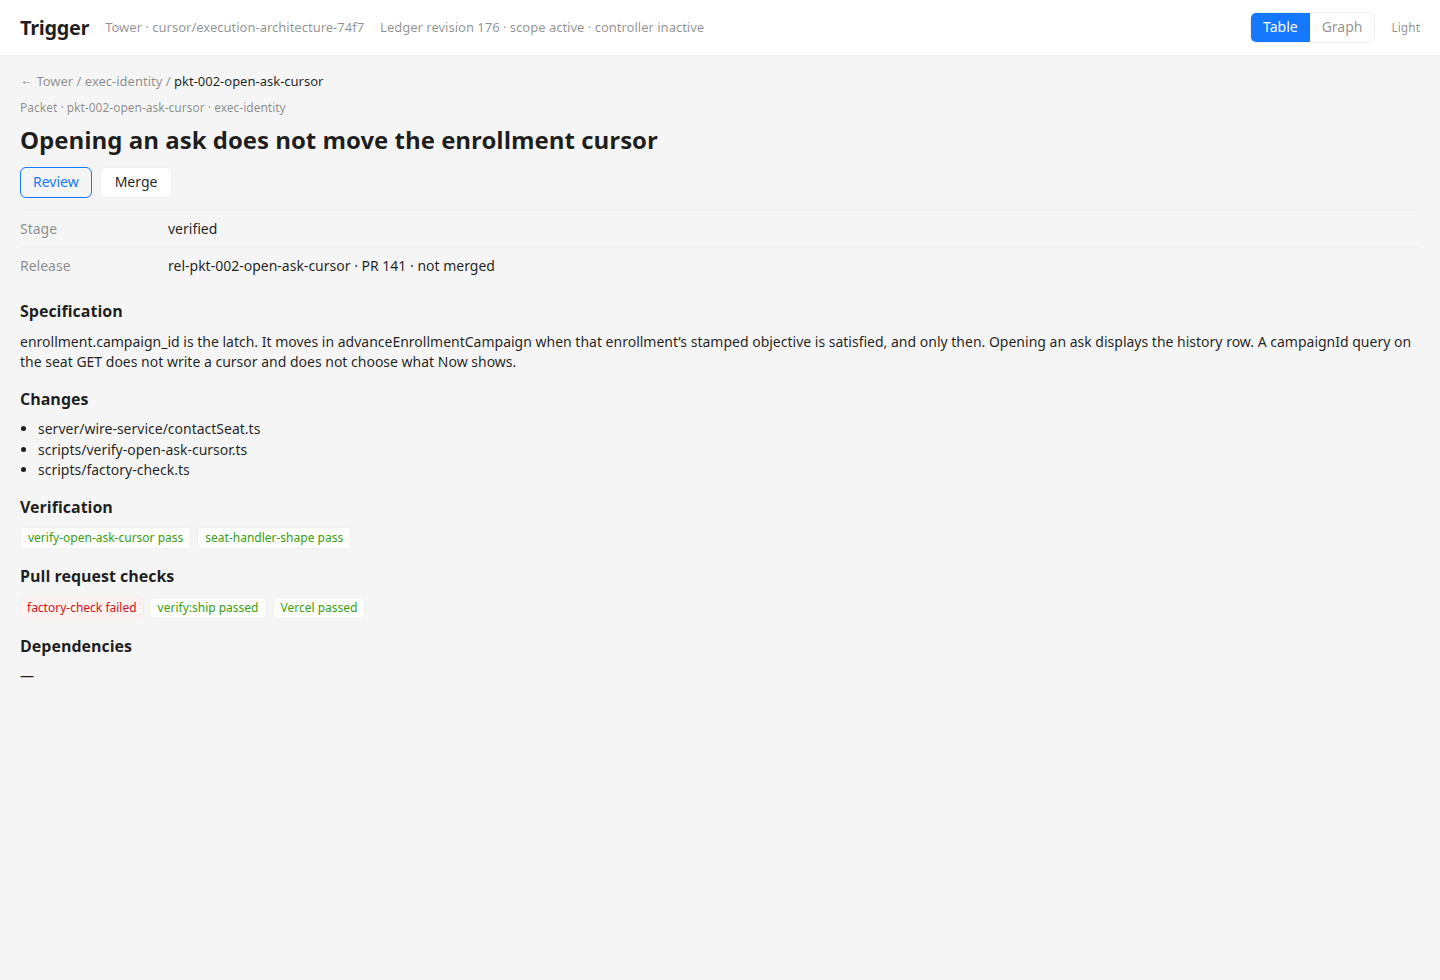
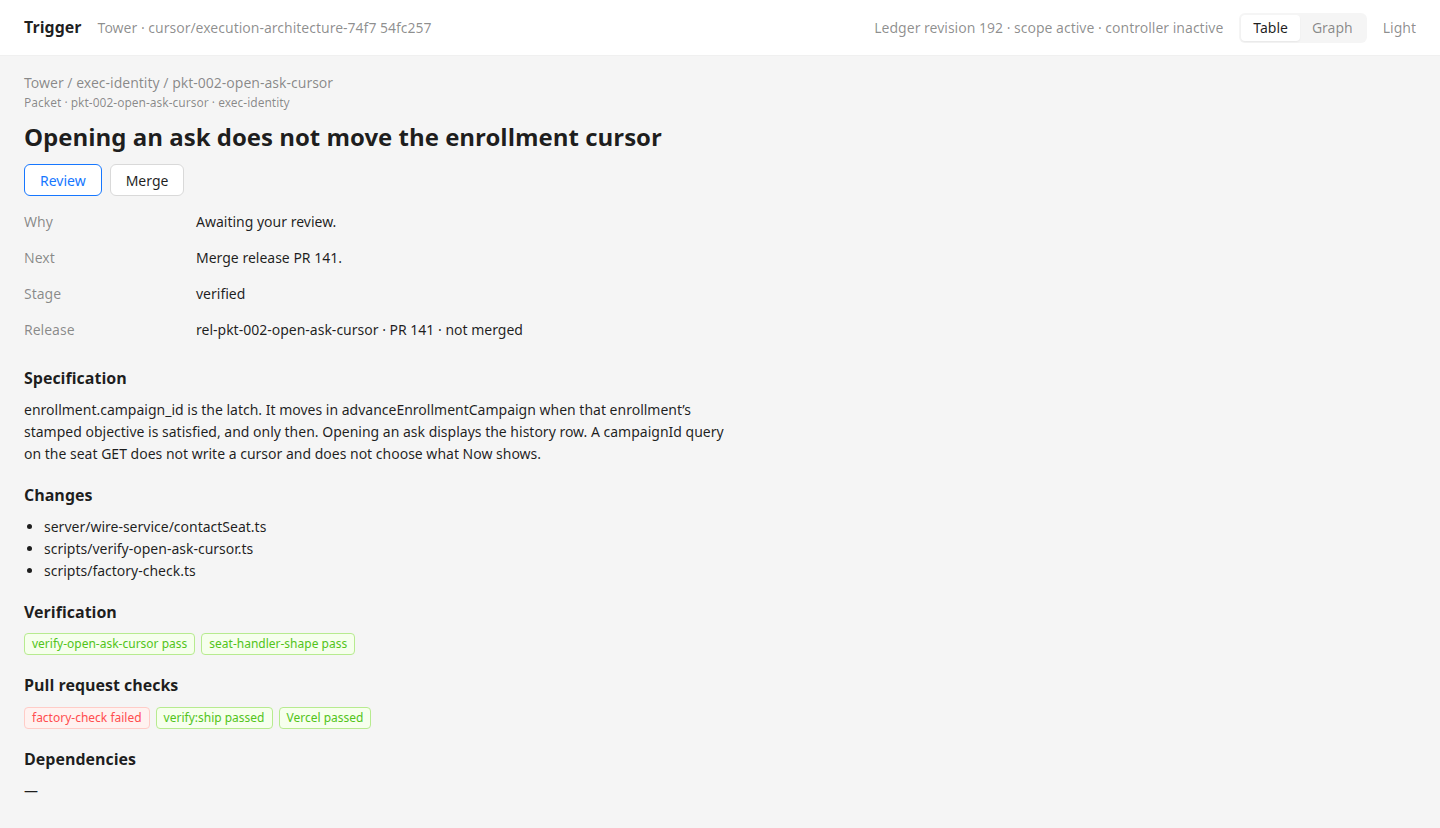
Revise packet 009 plates: inbox in the pulse drawer.
Open releases are the first rows of the existing pulse, with Why and Next taken from recorded ledger and manifest fields. Unknown stays Unknown. Wake remains hold.

diff --git a/docs/register/PM-PACKET-009-founder-inbox.md b/docs/register/PM-PACKET-009-founder-inbox.md
@@ -6,51 +6,97 @@ Plates: [`plates/packet-009/`](./plates/packet-009/README.md). Approve the plate
 
 ## Founder lock
 
-The banner is the pulse band. Open Trigger and see **Your attention required — 2 releases**. Each release offers the specification, the code changes, the passing checks, the dependencies, and a Review / Merge action. The review experience comes first. An authorized merge comes after. GitHub stays the infrastructure. Trigger is where you operate.
+The banner is the pulse. It is not a separate compartment. Open releases are the first rows in that drawer, in the order they opened. Each has Review. The review page stays: specification, changes, ledger checks, pull request checks, dependencies, and Merge. Why and Next are added on that page and on every row.
 
-MCP can see the packets and still cannot name the release pull requests. For both, `github.available` is false. Lifecycle says `verified`. There is no first-class awaiting-review record with the pull request, the changes, the verification, and the action.
+Explainable factory state is this same cut. The desk says why the work has not advanced, and what advances it. Where the ledger or the factory manifest does not record the answer, the desk says Unknown.
 
-## What the ledger already has
+GitHub stays the infrastructure. Trigger is where you read it. The merge write is not this cut.
 
-Tower ledger revision 176 on `cursor/execution-architecture-74f7` (31 Oct 2026). Scope active. 43 of 50 dispatches. An engineer lease is open on `pkt-019-first-step-send-denied`.
+## What was read
 
-`releases` is already on the ledger. Trigger’s snapshot type does not carry it. This packet reads that object. It does not mint a store.
+31 Oct 2026, 10:44 AM America/Toronto.
 
-| Release | Packet | Pull request | mergeSha | Packet stage | Ledger checks |
-| --- | --- | --- | --- | --- | --- |
-| `rel-pkt-002-open-ask-cursor` | `pkt-002-open-ask-cursor` | [141](https://github.com/bywale-com/omcoda_tower/pull/141) | null | verified | `verify-open-ask-cursor` pass, `seat-handler-shape` pass |
-| `rel-pkt-003-resume-same-run` | `pkt-003-resume-same-run` | [142](https://github.com/bywale-com/omcoda_tower/pull/142) | null | verified | `verify-resume-same-run` pass, `factory-check` pass |
+Operating branch `cursor/execution-architecture-74f7` at `54fc257`. Ledger revision 192. Scope active. `founderDecision` null. Controller activation inactive. `dispatch` forbidden. Dispatches 43 of 50. Cadence event.
 
-Titles are the manifest titles. The inbox is every `releases` entry whose `mergeSha` is null. Packets whose stage is `released` and that are absent from `releases` stay out of the count.
+`GET /api/snapshot` on https://trigger-theta-cyan.vercel.app returned ref `cursor/factory-agents-scope-33ee`, revision 122, scope suspended, activation inactive, `readFailed` false. The server selected that snapshot. It is not a stale page. This cut does not change which ref production follows. The plates are revision 192. A desk on revision 122 does not have these releases, and it still shows dispatches that revision 192 has superseded.
 
-The same read of the pull requests, same hour: PR 141 `factory-check` failed and `verify:ship` passed. PR 142 `factory-check` failed and `verify:ship` failed. The review shows the ledger checks and the pull request’s current checks as separate facts.
+## Releases
 
-The desk shows whatever ledger it is pointed at. These two releases are on revision 176. A desk pointed at `source.json` (`cursor/factory-agents-scope-33ee`, revision 122) does not have this `releases` map.
+`releases` is already on the ledger. Every entry below has `mergeSha` null. The drawer is these entries, oldest first. A packet whose stage is `released` and that is absent from `releases` is not one of them.
+
+| Release | Packets | Pull request | Opened (America/Toronto) |
+| --- | --- | --- | --- |
+| `rel-pkt-002-open-ask-cursor` | `pkt-002-open-ask-cursor` | [141](https://github.com/bywale-com/omcoda_tower/pull/141) | 9:43 AM |
+| `rel-pkt-003-resume-same-run` | `pkt-003-resume-same-run` | [142](https://github.com/bywale-com/omcoda_tower/pull/142) | 9:43 AM |
+| `rel-pkt-007-fact-writes` | `pkt-007-fact-writes` | [143](https://github.com/bywale-com/omcoda_tower/pull/143) | 10:38 AM |
+| `rel-pkt-005-audit-row-grain` | `pkt-005-audit-row-grain` | [144](https://github.com/bywale-com/omcoda_tower/pull/144) | 10:38 AM |
+| `rel-pkt-008-meeting-writes` | `pkt-008-meeting-writes` | [145](https://github.com/bywale-com/omcoda_tower/pull/145) | 10:39 AM |
+| `rel-pkt-010-campaign-failure-writes` | `pkt-010-campaign-failure-writes` | [146](https://github.com/bywale-com/omcoda_tower/pull/146) | 10:39 AM |
+| `rel-pkt-004-firing-handle--pkt-006-id-keyed-loads` | `pkt-004-firing-handle`, `pkt-006-id-keyed-loads` | [147](https://github.com/bywale-com/omcoda_tower/pull/147) | 10:39 AM |
+| `rel-pkt-013-firm-provision-writes` | `pkt-013-firm-provision-writes` | [148](https://github.com/bywale-com/omcoda_tower/pull/148) | 10:40 AM |
+
+Those packets are `verified`. Ledger checks for 141 and 142 are the passes already recorded. PR 141, read with the plates: `factory-check` failed, `verify:ship` passed, Vercel passed. The review shows the ledger checks and the pull request’s checks as separate facts.
+
+## Sentences
+
+Trigger does not add a store. It reads fields Tower already records and says only these sentences.
+
+| Recorded fact | Why | Next |
+| --- | --- | --- |
+| A `releases` entry with `mergeSha` null | Awaiting your review. | Merge release PR `{prNumber}`. The opened time is `openedAt`. |
+| Execution `phase` `running`, `startedAt` set, `endedAt` null, lease `until` after the read | Running, confirmed. Worker started at `startedAt`. Last recorded activity is `runningAt` when that field is set. | `execution.reason`, or Unknown when `reason` is null. |
+| `factory.json` `activation` is `inactive`, and the advance is a dispatch | Controller inactive. | Controller activation. |
+| Stage `verified`, `releaseEligible`, no `releases` entry | Unknown. | Unknown. |
+| Stage `accepted` and `integratedSha` set | Integrated. | This row is not in the drawer. |
+
+`pkt-019-first-step-send-denied` is the running case. Execution `dsp-172` is `running`, started 9:48 AM America/Toronto, last activity 9:51 AM, lease until 10:51 AM, `reason` null. The lease role is engineer. Next is Unknown. The manifest says checkpoint enforcement is an instruction and that no timer observes the interval, so the age of `runningAt` is not a stall.
+
+`pkt-018-send-denied-engagement` is also listed on `dsp-172`. Its stage is `verified` and it has no release. Its sentence is Unknown, not running.
+
+`pkt-009-eligibility-writes` and the other `released` packets with `wake` `sa` and no release use the controller sentence. Activation is inactive, so the controller does not dispatch. The desk does not say the analyst is the thing that advances them while that is true.
+
+`pkt-015-halt-enroll-firm`, `pkt-016-halt-send-firm`, and `pkt-018` are `verified` with no release. Unknown.
+
+`pkt-001-click-attribution` is `accepted` and integrated. It is not an alert.
+
+An unconfirmed dispatch is a current row only while it is still that packet’s `dispatch` and no later execution for that packet has `phase` `completed`. On revision 192, `pkt-002` and `pkt-003` have `dispatch` null and stage `verified`. They are not unconfirmed. `exec-identity` session is `continuation_due` and its `dispatch` is null. It is not unconfirmed. Its sentence is controller inactive.
 
 ## Face
 
-Desktop: the attention line sits in the pulse band, under the scope and controller tags, above the table. The rows are open. Phone: the count stays visible. The rows open with the pulse lip. The closed phone header does not gain a branch line.
+Closed pulse: **8 releases awaiting your review · 1 Engineer running**
 
-Review is the packet page. Specification is the factory intent, not a new summary. Changes are the pull request files when GitHub evidence is available. Verification is `execution.checks`. Pull request checks are that pull request’s checks when the GitHub read works. Dependencies are the manifest siblings. The ledger `prNumber` and `prUrl` show even when `github.available` is false.
+Quiet line under it: `scope active · controller inactive · 43/50 · event`
 
-Merge is on the page. This cut does not call GitHub.
+The existing lip opens the drawer. Releases first, by `openedAt`. The running execution after them. A release row is the manifest title, the sentence, and Review. The running row has no Review.
+
+Phone: the sentence stays visible with the lip closed. The rows open with that lip. The closed header does not gain a branch line. The board stays one table and scrolls sideways.
+
+Why and Next are columns on that table. Stage stays the lifecycle word.
+
+Review is the packet page. Why and Next are the first properties. Specification is the factory intent. Changes are the pull request files when that read works. Verification is `execution.checks`. Pull request checks are that pull request’s checks. Dependencies are the manifest siblings. The ledger `prNumber` and `prUrl` show when `github.available` is false. Merge is on the page and does not call GitHub.
 
 ## Technical cut
 
 | File | Job |
 | --- | --- |
-| `src/observe/snapshot.ts` | Carry `releases` from the ledger JSON onto the snapshot. |
-| `src/observe/tower/read.ts` | Pass `releases` through. No new store and no second fetch for the ledger. |
-| `src/desk/Pulse.tsx` | Attention count in the pulse band. Phone rows follow the existing lip. |
-| `src/desk/Detail.tsx` | Review block for a packet named by an open release. |
-| `src/observe/external/project.ts` | `get_packet` and a release list include `prNumber`, `prUrl`, `mergeSha`, ledger checks. |
-| `src/observe/external/mcp.ts` | The read tools return that release. No write tool. |
+| `src/observe/snapshot.ts` | Carry `releases` and the execution fields the sentences use: `phase`, `startedAt`, `runningAt`, `endedAt`, `reason`. |
+| `src/observe/tower/read.ts` | Pass those through. No second fetch and no new store. |
+| `src/observe/tower/pulse.ts` | The sentences and the drawer order. Unconfirmed only for a dispatch that is still unresolved. |
+| `src/desk/Pulse.tsx` | The sentence, the quiet line, and the drawer. No second band. |
+| `src/desk/TableView.tsx` | Why and Next on the existing board. |
+| `src/desk/Detail.tsx` | Why and Next. The review block for a packet named by an open release. |
+| `src/observe/external/project.ts` | `get_packet` and the release list include `prNumber`, `prUrl`, `mergeSha`, why, and next. |
+| `src/observe/external/mcp.ts` | The read tools return that. No write tool. |
 | `src/observe/tower/github.ts` | A failed enrichment still leaves the ledger pull request visible. Pull request checks attach only when that read succeeds. |
 
 ## Not this cut
 
-The merge write. A server-side token, later, that can merge only a Tower release pull request whose packet is `verified` and whose `mergeSha` is null. Not a general write on `trigger:read`.
+The merge write. A server-side token, later, that can merge only a Tower release pull request whose packet is `verified` and whose `mergeSha` is null.
 
-Other attention (blocked work, a waiting founder decision) in the same band.
+A Tower field for a transition reason. Unknown stays Unknown until that field exists.
 
-Pointing production at a different factory ref. That is the existing source setting.
+Any sentence that is not in the table above.
+
+Pointing production at a different factory ref.
+
+Calling a worker stalled because `runningAt` is old. Calling the factory operating while `activation` is inactive.

diff --git a/docs/register/plates/packet-009/README.md b/docs/register/plates/packet-009/README.md
@@ -1,26 +1,29 @@
 # Packet 009 plates — founder inbox
 
-Painted for approval. The desk is not planted. Chrome is the current header and the pulse band. The new hole is the attention line in that band, and the review block on the packet page.
+Painted for approval. The desk is not planted.
 
-Figures are ledger 176 on `cursor/execution-architecture-74f7`, read 31 Oct 2026. `releases` already names both open release pull requests. Trigger’s snapshot does not read that object, so the desk and the MCP still cannot.
+The attention is the pulse. It is not a second band. Open releases are the first rows in the pulse drawer. The running execution follows them. Review opens the packet page. That page is the review page already drawn, with Why and Next added.
+
+Figures are ledger revision 192 on `cursor/execution-architecture-74f7`, read 31 Oct 2026, 10:44 AM America/Toronto. Scope active. Controller activation inactive. 43 of 50 dispatches. Eight releases have `mergeSha` null. One execution is `running`.
 
 ## Plates
 
-- [desktop-light.png](./desktop-light.png) · [desktop-dark.png](./desktop-dark.png) — the count, then the two releases, above the table
-- [phone-closed.png](./phone-closed.png) — the count stays visible. The rows stay behind the lip
-- [phone-open.png](./phone-open.png) — the lip shows the two releases. The table stays underneath
-- [release-pkt-002.png](./release-pkt-002.png) — the review page for `pkt-002-open-ask-cursor`
+- [desktop-light.png](./desktop-light.png) · [desktop-dark.png](./desktop-dark.png) — the sentence, then the drawer, then Why and Next on the board
+- [phone-closed.png](./phone-closed.png) — the sentence stays visible. The rows stay behind the pulse lip
+- [phone-open.png](./phone-open.png) — releases first, then the running execution. The table stays underneath
+- [release-pkt-002.png](./release-pkt-002.png) — review for `pkt-002-open-ask-cursor`
+- [packet-pkt-019.png](./packet-pkt-019.png) — the running packet. Next is Unknown
 
 ## Copy
 
-**Your attention required — 2 releases.** Each row is one `releases` record whose `mergeSha` is null: the packet title, the pull request number, `verified`, the ledger check outcomes, and a failed pull-request check when that check is red. **Review** opens the packet page.
+**8 releases awaiting your review · 1 Engineer running**
 
-The review page quotes the factory intent. Changes are files on the release pull request. Verification is the ledger `execution.checks`. Pull request checks are the checks on that pull request now. Those are different facts. Dependencies are the manifest siblings. **Merge** is drawn and does not write.
+The quiet line is scope, controller, dispatch count, and cadence. Those are not the same kind of fact as the sentence.
+
+Each release row is the manifest title, then: awaiting your review, the pull request, and the time the release opened. **Review** opens the packet page. The running row names the worker start and the last recorded activity. It has no Review button.
+
+The board keeps its columns and adds Why and Next. The phone board still scrolls sideways. The closed phone header still shows only Trigger, Table / Graph, and the theme.
 
 ## Do not build from the picture alone
 
-A second inbox product. A paraphrase of the intent. A green “all checks passed” when `factory-check` or `verify:ship` is failed. Hiding the ledger pull request because `github.available` is false. A merge that calls GitHub. That write is a later cut.
-
-## Phone
-
-The count is in the banner. The release rows use the pulse lip. The closed header still shows only Trigger, Table / Graph, and the theme.
+A second inbox. A paraphrase in place of the factory intent. A green “all checks passed” when `factory-check` is failed. Hiding the ledger pull request because `github.available` is false. A merge that calls GitHub. “Factory operating” while activation is inactive. A stall inferred from the age of `runningAt`. An unconfirmed row for a dispatch that a later execution has already finished.

diff --git a/docs/register/PM-PACKET-009-founder-inbox-TEST.md b/docs/register/PM-PACKET-009-founder-inbox-TEST.md
@@ -2,17 +2,19 @@
 
 Fill **I saw** on the planted desk after this wake leaves hold. The plates are the picture. This sheet is the plant.
 
-Setup: the desk reads a ledger that contains `releases` with `mergeSha` null for `rel-pkt-002-open-ask-cursor` and `rel-pkt-003-resume-same-run`. `github.available` may be false.
+Setup: the desk reads a ledger that contains the eight open releases and the running execution on `pkt-019-first-step-send-denied`. `github.available` may be false. Controller activation may be inactive.
 
-1. Open the desk. The pulse band says **Your attention required — 2 releases**.
+1. The pulse sentence is **8 releases awaiting your review · 1 Engineer running**. Scope, controller, the dispatch count, and cadence are the quiet line under it. There is no second band.
    I saw:
-2. The rows name PR 141 and PR 142, the packet titles, `verified`, and the ledger checks. A failed pull-request check is shown as failed.
+2. The pulse lip opens the releases first, oldest first, each with Review. The running execution is after them and has no Review. `pkt-002` and `pkt-003` are not listed as unconfirmed.
    I saw:
-3. On a phone, the count is visible while the header lip is closed. The release rows open with the pulse lip. The table stays on the page.
+3. On a phone, the sentence is visible while the header lip is closed. The release rows open with the pulse lip. The closed header is Trigger, Table / Graph, and the theme. The table scrolls sideways.
    I saw:
-4. Review on `pkt-002-open-ask-cursor` shows the factory intent, the changed paths, the ledger checks, the pull request checks, the dependencies, and Merge.
+4. The board shows Why and Next. `pkt-002` is awaiting your review, next merge PR 141. A `released` packet while activation is inactive says controller inactive, next controller activation. A `verified` packet with no release says Unknown. `pkt-019` says running, confirmed, and next Unknown.
    I saw:
-5. Merge does not call GitHub.
+5. Review on `pkt-002-open-ask-cursor` shows Why, Next, the factory intent, the changed paths, the ledger checks, the pull request checks, the dependencies, and Merge. A failed pull-request check is shown as failed.
    I saw:
-6. `get_packet` for `pkt-002-open-ask-cursor` returns `prNumber` 141 and the pull request URL while `github.available` is false.
+6. Merge does not call GitHub.
+   I saw:
+7. `get_packet` for `pkt-002-open-ask-cursor` returns `prNumber` 141, the pull request URL, why, and next, while `github.available` is false.
    I saw:

diff --git a/docs/register/ENGINEER-HANDOFF.md b/docs/register/ENGINEER-HANDOFF.md
@@ -4,7 +4,7 @@
 
 ## Where we stopped
 
-Packet 009 is on `cursor/founder-inbox-71ee`. **Wake:** hold. The plates are in `docs/register/plates/packet-009/`. The founder asked to see them before the plant. Do not plant the inbox, and do not add a merge write, while the wake says hold. Ledger 176 already has `releases` for PR 141 and PR 142. The snapshot does not read that object.
+Packet 009 is on `cursor/founder-inbox-71ee`. **Wake:** hold. The plates in `docs/register/plates/packet-009/` were revised 31 Oct 2026: the inbox is the pulse drawer, releases first, and Why / Next use recorded fields or Unknown. Do not plant, and do not add a merge write, while the wake says hold. Operating ledger on `cursor/execution-architecture-74f7` was revision 192 at 10:44 AM America/Toronto: scope active, controller inactive, eight open releases (PR 141–148), execution `dsp-172` running on `pkt-019`. Production `GET /api/snapshot` at that time returned `cursor/factory-agents-scope-33ee`, revision 122, scope suspended. That is the server snapshot. This packet does not change the ref. The snapshot type still does not carry `releases`.
 
 Hotfix 007 is `cursor/operating-factory-lock-71ee`. Production deployment `78fa391` reads `cursor/factory-agents-scope-33ee`, ledger revision 122. Deployment `69380f9` of the same resolver reads `cursor/execution-architecture-74f7`, ledger revision 192. Production ignores `TOWER_REF` and `TOWER_SOURCE`. A missing operating signal fails the read instead of serving `source.json`.
 

diff --git a/docs/register/PM-PACKETS.md b/docs/register/PM-PACKETS.md
@@ -12,4 +12,4 @@ Next number: **010**. Never reuse.
 | 006 | [`PM-PACKET-006-interaction-desk.md`](./PM-PACKET-006-interaction-desk.md) | sa | Split pane, graph keeps the map, click-to-filter, crumb + hash, compact sheet, expand, gutters, load/live spin. |
 | 007 | [`PM-PACKET-007-live-factory-states.md`](./PM-PACKET-007-live-factory-states.md) | hold | Live motion language. Founder rejected the text overlays (ad-lib). Stays hold. |
 | 008 | [`PM-PACKET-008-factory-pulse.md`](./PM-PACKET-008-factory-pulse.md) | sa | Factory Pulse: controlStep reasons, Spin on live leases, unconfirmed when no lease, wait chips, remaining dispatches, event cadence. Compact open page keeps the list visible. |
-| 009 | [`PM-PACKET-009-founder-inbox.md`](./PM-PACKET-009-founder-inbox.md) | hold | Founder inbox. Open releases from ledger `releases`, in the pulse band. Review on the packet page. Merge is drawn and does not write. |
+| 009 | [`PM-PACKET-009-founder-inbox.md`](./PM-PACKET-009-founder-inbox.md) | hold | Founder inbox in the pulse drawer, releases first. Why and Next from recorded fields, otherwise Unknown. Review on the packet page. Merge is drawn and does not write. |
